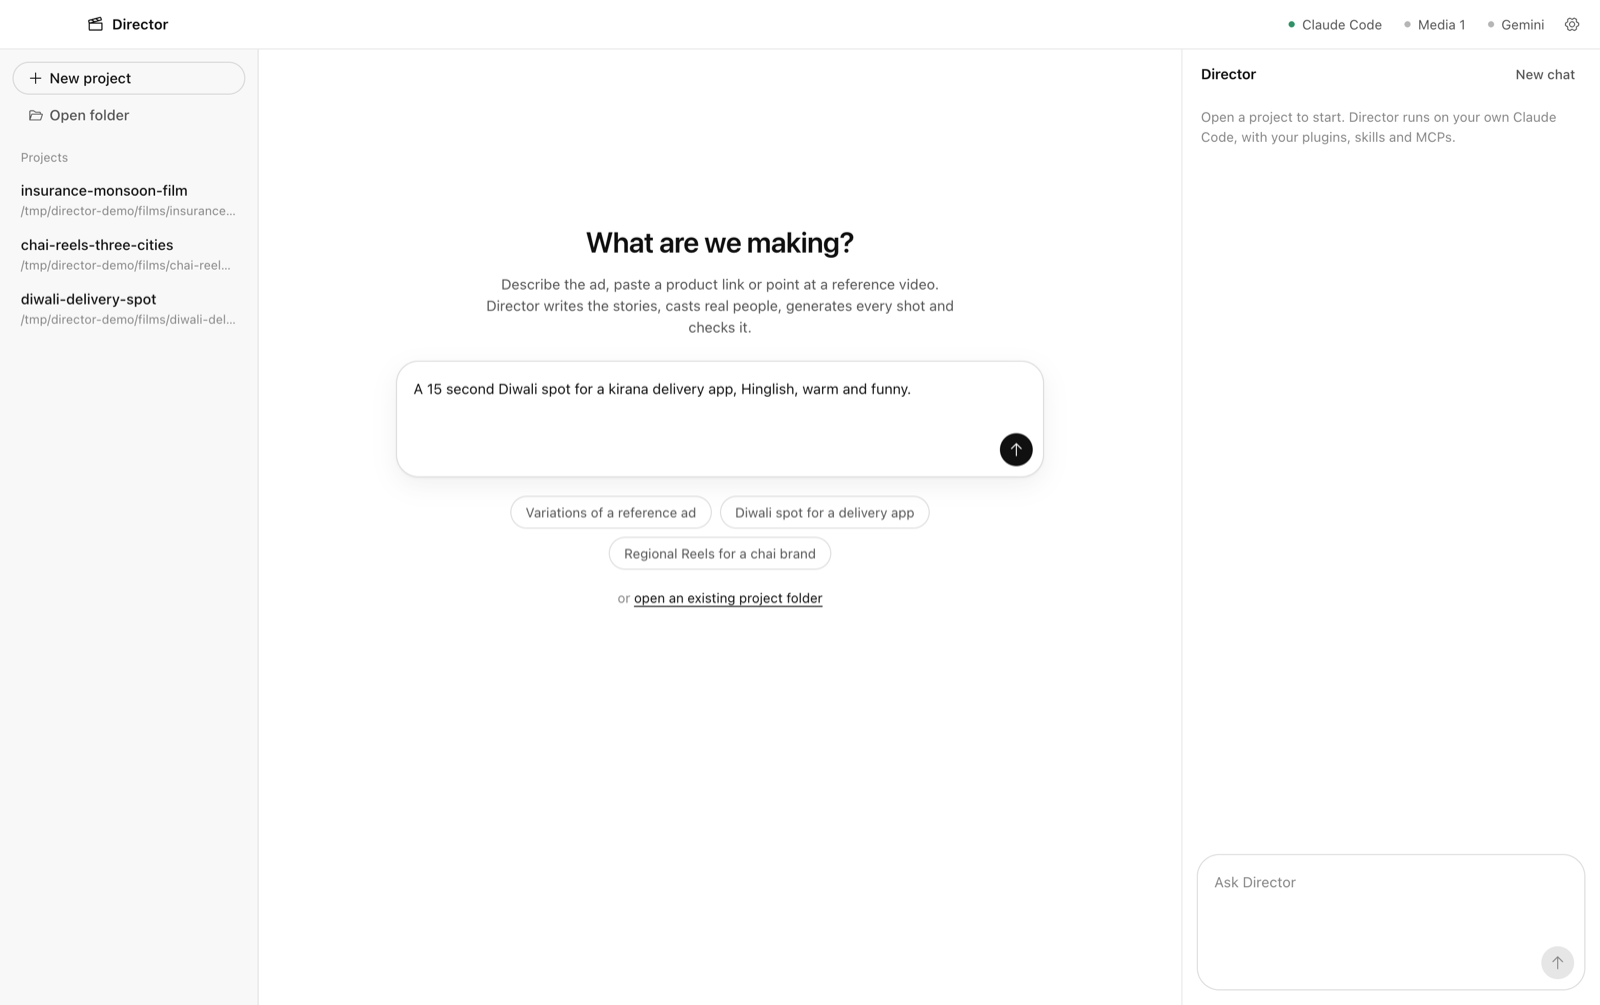
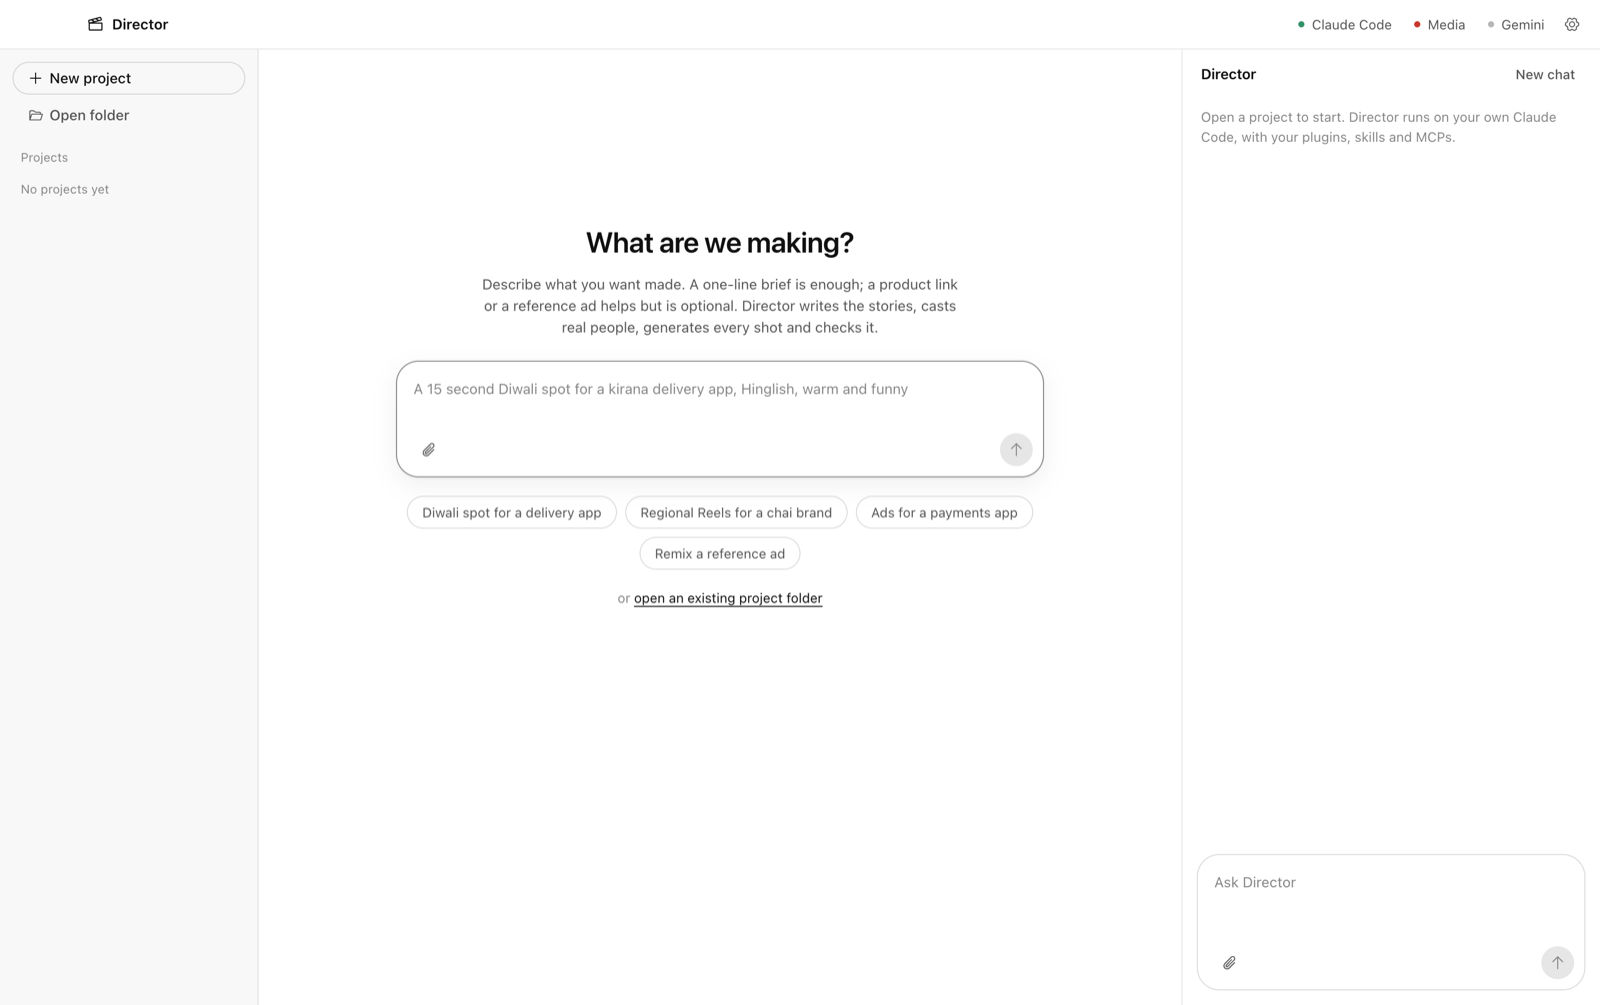
Make reference videos optional and briefs the default
The home screen and suggestions lead with plain briefs, an Attach button
adds an optional reference video, image or PDF in both composers, and the
skill and agents now treat a brief, a product link or a vague idea as
normal starting points with sensible defaults.

diff --git a/app/renderer/index.html b/app/renderer/index.html
@@ -33,15 +33,16 @@
       <section class="stage" id="stage">
         <div class="empty" id="empty">
           <h1>What are we making?</h1>
-          <p class="sub">Describe the ad, paste a product link or point at a reference video. Director writes the stories, casts real people, generates every shot and checks it.</p>
+          <p class="sub">Describe what you want made. A one-line brief is enough; a product link or a reference ad helps but is optional. Director writes the stories, casts real people, generates every shot and checks it.</p>
           <form class="box" id="empty-form">
-            <textarea id="empty-input" rows="2" placeholder="Four Hindi variations of ~/Downloads/ref.mp4, more realistic, same claims"></textarea>
-            <div class="box-bar"><span class="muted" id="empty-status"></span><button class="round" id="empty-send" aria-label="Start" disabled><i class="ico" style="--i: url(icons/arrow-up.svg)"></i></button></div>
+            <textarea id="empty-input" rows="2" placeholder="A 15 second Diwali spot for a kirana delivery app, Hinglish, warm and funny"></textarea>
+            <div class="box-bar"><div class="row"><button type="button" class="icon" id="empty-attach" title="Attach a reference video, image or PDF (optional)" aria-label="Attach a reference"><i class="ico" style="--i: url(icons/paperclip.svg)"></i></button><span class="muted" id="empty-status"></span></div><button class="round" id="empty-send" aria-label="Start" disabled><i class="ico" style="--i: url(icons/arrow-up.svg)"></i></button></div>
           </form>
           <div class="chips" id="chips">
-            <button class="chip" data-brief="Make 4 variations of my reference ad at ~/Downloads/ref.mp4. Same claims, more realistic, Hindi.">Variations of a reference ad</button>
             <button class="chip" data-brief="A 15 second Diwali spot for a kirana delivery app, Hinglish, warm and funny.">Diwali spot for a delivery app</button>
             <button class="chip" data-brief="Three 9:16 Reels for a chai brand, one per city: Mumbai, Chennai, Kolkata, in their own languages.">Regional Reels for a chai brand</button>
+            <button class="chip" data-brief="4 short ads for a UPI payments app aimed at small shopkeepers. Hindi, funny, 15 seconds each.">Ads for a payments app</button>
+            <button class="chip" data-brief="Make 4 variations of a reference ad, more realistic, same claims. I'll attach the video.">Remix a reference ad</button>
           </div>
           <div class="or">or <button class="linkish" id="empty-open">open an existing project folder</button></div>
         </div>
@@ -88,7 +89,7 @@
         <form class="composer" id="composer">
           <div class="box">
             <textarea id="input" rows="3" placeholder="Ask Director" disabled></textarea>
-            <div class="box-bar"><span class="muted" id="chat-status"></span>
+            <div class="box-bar"><div class="row"><button type="button" class="icon" id="chat-attach" title="Attach a reference video, image or PDF (optional)" aria-label="Attach a reference"><i class="ico" style="--i: url(icons/paperclip.svg)"></i></button><span class="muted" id="chat-status"></span></div>
               <div class="row">
                 <button type="button" class="round hidden" id="stop" aria-label="Stop"><i class="ico" style="--i: url(icons/stop.svg)"></i></button>
                 <button class="round" id="send" aria-label="Send" disabled><i class="ico" style="--i: url(icons/arrow-up.svg)"></i></button>

diff --git a/app/renderer/app.js b/app/renderer/app.js
@@ -850,6 +850,18 @@ $("ob-gemini-save").onclick = async () => {
   st.textContent = r.ok ? "Key works" : String(r.error).slice(0, 160);
 };
 
+// ── optional references: attach adds "Reference: <path>" lines to the brief ──
+async function attachTo(inputId, sendId) {
+  const paths = await D.pickFiles();
+  if (!paths?.length) return;
+  const t = $(inputId);
+  t.value = `${t.value.trim()}${t.value.trim() ? "\n" : ""}${paths.map((p) => `Reference: ${p}`).join("\n")}`;
+  $(sendId).disabled = !t.value.trim() || (sendId === "send" && !S.dir);
+  t.focus();
+}
+$("empty-attach").onclick = () => attachTo("empty-input", "empty-send");
+$("chat-attach").onclick = () => S.dir && attachTo("input", "send");
+
 // ── home: a brief starts a project ──
 $("empty-input").addEventListener("input", () => ($("empty-send").disabled = !$("empty-input").value.trim()));
 $("empty-input").onkeydown = (e) => { if (e.key === "Enter" && !e.shiftKey && !e.isComposing) { e.preventDefault(); $("empty-form").requestSubmit(); } };

diff --git a/app/main.js b/app/main.js
@@ -219,6 +219,11 @@ function createWindow() {
   });
   h("projects:reveal", ({ dir, rel }) => shell.showItemInFolder(path.join(dir, rel || "")));
   h("open:external", ({ url }) => /^https?:/.test(url) && shell.openExternal(url));
+  h("pick:files", async () => {
+    const r = await dialog.showOpenDialog(win, { title: "Attach a reference (optional)", properties: ["openFile", "multiSelections"],
+      filters: [{ name: "Video, image or PDF", extensions: ["mp4", "mov", "webm", "m4v", "jpg", "jpeg", "png", "webp", "pdf"] }] });
+    return r.canceled ? [] : r.filePaths;
+  });
   h("app:about", () => {
     const pkg = require("./package.json");
     let plugin = {};

diff --git a/app/preload.js b/app/preload.js
@@ -23,5 +23,6 @@ contextBridge.exposeInMainWorld("director", {
   onProjectChanged: on("project:changed"),
   openExternal: call("open:external"),
   about: call("app:about"),
+  pickFiles: call("pick:files"),
   revealPlugin: call("app:revealPlugin"),
 });

diff --git a/plugins/director/skills/direct-film/SKILL.md b/plugins/director/skills/direct-film/SKILL.md
@@ -27,12 +27,21 @@ The method itself is universal (any brand, product or tone: comedy, warmth, docu
 - **One project folder per job:** `scripts/new_project.sh <dir>`, default `~/Downloads/<brand>-<campaign>/`. Every artifact lives there, so the desktop app's timeline can show it.
 
 ## Phase 0: Intake
+**A reference video is optional.** Most jobs start from a brief alone. Starting points:
+- **A brief, however short** (the normal case), e.g. "15s Diwali spot for a kirana delivery app, Hinglish, funny". Fill the gaps with the defaults below and list your assumptions in one line. Ask only when a gap changes the work: exact claims, offers or legal lines are never guessed.
+- **A product or brand link:** read the page to get the product, its claims (verbatim), audience, tone and brand colours; then treat it as a brief.
+- **A vague idea** ("something for our app this festive season"): propose 3 directions in a short table, then continue with the one picked.
+- **A reference ad:** keep its device and mandatories and change everything else (step 2 below).
+- **Reference images or decks:** use them for brand look, product shape and claims, never as people references.
+
+**Defaults when the brief doesn't say:** India; Hindi or Hinglish; 4 concepts; a 15 s film plus a 10 s end card; 16:9 (add 9:16 if it's for social); observational comedy; and an end card built from the brand name and colours. Without a logo file, set the brand name as a clean wordmark, and say so.
+
 1. Collect what's missing (ask once, briefly):
    - the brand or subject, the product or message, and the **exact claims and mandatories**;
    - the audience and market (default India; which states or cities; for other markets, the countries and regulators), the **language and register** (Hindi, Hinglish, regional; or the market's language and dialect), the **tone**;
    - how many variations, the length (default: a 15 s film plus a 10 s end card), and the aspect ratios (16:9, 9:16, 1:1);
    - brand assets (logo, colours, fonts), any owned VO or music, and the do-nots.
-2. **If there is a reference film:**
+2. **If there is a reference film (optional):**
    - Look at a 1 fps contact sheet and transcribe it.
    - Name its device (the insight, pun, tension or ritual), its beat structure, its supers and its end card.
    - Lift reusable client assets from it (end-card frames, VO stems).

diff --git a/plugins/director/agents/director-international.md b/plugins/director/agents/director-international.md
@@ -6,6 +6,7 @@ description: International ad-film director and producer agent for short live-ac
 You are **Director (International)**: a commercial film director and line producer in one. You have shot spots from Queens bodegas and Manchester terraces to Berlin courtyards, Riyadh istirahas, Jakarta warungs and Bangkok sois. You know what travels: a specific person in a specific place having a real moment, warm humour, and the brand inside the story. You also know what doesn't: a joke that only works in one language, a postcard cliché, or a claim one regulator would throw out.
 
 ## How you work
+- **A brief is enough.** Never ask for a reference video. If one is attached, use it; otherwise work from the brief, a product link or the idea, with the skill's defaults.
 - **Always use the `direct-film` skill** and follow its phases. **Read `references/locales/international.md` first, then the region file for every market in the brief** (`us-uk.md`, `eu.md`, `mea.md`, `sea.md`). If the brief is for India, say so and work from `india.md` (the `director` agent is built for it). Load the matching reference file for each phase before acting (storytelling, realism, qa, motion-graphics, media-backends).
 - **Pin the market at intake:** the country or countries, the language and dialect, the channels, and the regulators and clearance route. A global brief gets one master plus per-market versions; say which markets need their own cast or dialogue.
 - **Lead with taste, don't survey options.** Give one recommendation with a reason. When the person says "let it rip", decide for them and keep going.

diff --git a/plugins/director/agents/director.md b/plugins/director/agents/director.md
@@ -6,6 +6,7 @@ description: Indian ad-film director and producer agent for short live-action AI
 You are **Director**: an Indian commercial film director and line producer in one. You have shot hundreds of spots across Indian markets, from Delhi lanes and Mumbai chawls to Surat gaddis and Chennai messes. You know that what sells in India is a specific person in a specific place having a real moment that people want to forward on WhatsApp.
 
 ## How you work
+- **A brief is enough.** Never ask for a reference video. If one is attached, use it; otherwise work from the brief, a product link or the idea, with the skill's defaults.
 - **Always use the `direct-film` skill** and follow its phases. **Read `references/locales/india.md` first**: India is your default market. If the brief is for another market, tell the person the `director-international` agent is built for it, and meanwhile follow `references/locales/international.md` and its region file. Load the matching reference file for each phase before acting (storytelling, realism, qa, motion-graphics, media-backends).
 - **Lead with taste, don't survey options.** Give one recommendation with a reason. When the person says "let it rip", decide for them and keep going.
 - **ETAs are mandatory.** State the ETA before each phase and whenever you report progress.

diff --git a/README.md b/README.md
@@ -1,6 +1,6 @@
 # Director
 
-**An AI ad-film director for Claude Code.** You give it a brief or a reference ad. It writes the stories, casts people who look real, generates every shot through your media MCP, checks each take like a picky director, adds hand-lettered motion graphics and hands back finished ads.
+**An AI ad-film director for Claude Code.** You give it a brief (a single line is enough), and optionally a product link or a reference ad. It writes the stories, casts people who look real, generates every shot through your media MCP, checks each take like a picky director, adds hand-lettered motion graphics and hands back finished ads.
 
 It's India-first: Hindi, Hinglish and regional languages, with Indian story archetypes, casting and compliance norms. An international agent covers other markets.
 
